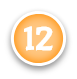
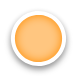
Fixed text so that it is sharper and better aligned

Changed region(s): [[0.1818, 0.1772, 0.8312, 0.8101], [0.4675, 0.3291, 0.7013, 0.6582], [0.3117, 0.3291, 0.4416, 0.6582]]

diff --git a/src/scenes/Stats.js b/src/scenes/Stats.js
@@ -15,34 +15,27 @@ class StatsScene extends Phaser.Scene {
         this.popupplank;
         this.vines;
         this.vines2;
-        this.level;
         this.levelIndicator;
-        this.Myname;
         this.Xpbar;
-        this.XpCount;
+
 
         this.SmallHeart;
         this.SmallEnergy;
         this.SmallPower;
-        this.Hitpoints;
-        this.EnergiePoints;
-        this.Kracht;
-        this.Heart21;
-        this.Energy32;
-        this.Power52;
+   
+
+        this._player = new Player();
+        this.player = {};
 
         this.BigHeart;
         this.BigEnergy;
         this.BigPower;
-        this.Mentalitytxt;
-        this.Energytxt;
-        this.Powertxt;
 
         this.addImage = addImage.bind(this);
     }
 
     preload() {
-
+        this.player = this._player.get();
     }
 
     create() {
@@ -55,7 +48,8 @@ class StatsScene extends Phaser.Scene {
         });
 
         // this.bg = this.addImage(0, 0, 'Stats:bg').setOrigin(0, 0);
-        this.bg = this.addImage(0, 0, 'Daily:bg').setOrigin(0, 0);
+        this.bg = this.addImage(0, 0, 'Daily:bg');
+        this.grid.placeAtIndex(112, this.bg);
         this.grid.scaleY(this.bg, 1);
 
         this.vines2 = this.addImage(0, 0, 'Stats:Vines');
@@ -70,62 +64,66 @@ class StatsScene extends Phaser.Scene {
         this.grid.placeAtIndex(112, this.popup);
         this.grid.scaleTo(this.popup, 0);
 
-        this.levelIndicator = this.addImage(0, 0, 'Stats:levelIndicator');
-        this.grid.placeAtIndex(37, this.levelIndicator);
-        this.grid.scaleTo(this.levelIndicator, 0);
+        this.levelIndicatorBG = this.addImage(0, 0, 'Stats:levelIndicatorBG');
+        this.grid.placeAtIndex(37, this.levelIndicatorBG);
+        this.grid.scaleTo(this.levelIndicatorBG, 0);
 
-        this.level = this.addImage(0, 0, 'Stats:level');
-        this.grid.placeAtIndex(52, this.level);
-        this.grid.scaleTo(this.level, 0);
+        this.levelIndicator = this.add.text(0, 0, this._player.getLevel(), { fontFamily: 'Bubblegum Sans', fontSize: `${Math.round(32 * window.devicePixelRatio)}px`});
+      
+        Phaser.Display.Align.In.Center(
+            this.levelIndicator,
+            this.levelIndicatorBG
+        );
+        
 
-        this.Myname = this.addImage(0, 0, 'Stats:MyName').setOrigin(0.5, 0.9);
-        this.grid.placeAtIndex(67, this.Myname);
-        this.grid.scaleTo(this.Myname, 0);
+        this.level = this.add.text(0, 0, 'Level', { fontFamily: 'Bubblegum Sans', fontSize: `${Math.round(22 * window.devicePixelRatio)}px`, fill: '#75BBE2'}); 
+        Phaser.Display.Align.In.Center(this.level, this.bg, 0, -360);
+
+        this.myUsername = this.add.text(0, 0, this.player.username, { fontFamily: 'Bubblegum Sans', fontSize: `${Math.round(28 * window.devicePixelRatio)}px`});
+        Phaser.Display.Align.In.Center(this.myUsername, this.bg, 0, -305);
+
+        this.xpCount = this.add.text(0, 0, `${this.player.xp}/${this._player.getRequiredXP(this._player.getLevel())}`, { fontFamily: 'Bubblegum Sans', fontSize: `${Math.round(14 * window.devicePixelRatio)}px`});
+        Phaser.Display.Align.In.Center(this.xpCount,this.bg, 0, -225);
 
         this.Xpbar = this.addImage(0, 0, 'Stats:XPBar');
-        this.grid.placeAtIndex(82, this.Xpbar);
+        Phaser.Display.Align.In.Center(this.Xpbar, this.bg, 0, -180);
         this.grid.scaleTo(this.Xpbar, 0);
 
-        this.XpCount = this.addImage(0, 0, 'Stats:XPCount').setOrigin(0.5, 2.0);
-        this.grid.placeAtIndex(82, this.XpCount);
-        this.grid.scaleTo(this.XpCount, 0);
-
+        // Mentaliteit 
         this.SmallHeart = this.addImage(0, 0, 'Stats:SmallHeart');
         this.grid.placeAtIndex(93, this.SmallHeart);
         this.grid.scaleTo(this.SmallHeart, 0);
 
-        this.Hitpoints = this.addImage(0, 0, 'Stats:Hitpoints');
-        this.grid.placeAtIndex(95, this.Hitpoints);
-        this.grid.scaleTo(this.Hitpoints, 0);
+        this.Mentality = this.add.text(0, 0, 'Mentaliteit', { fontFamily: 'Bubblegum Sans', fontSize: `${Math.round(18 * window.devicePixelRatio)}px`}).setOrigin(0.05, 0.45);
+        Phaser.Display.Align.In.Center(this.Mentality, this.bg, -90, -90);
 
-        this.Heart21 = this.addImage(0, 0, 'Stats:21');
-        this.grid.placeAtIndex(100, this.Heart21);
-        this.grid.scaleTo(this.Heart21, 0);
+        this.mentalityStat = this.add.text(0, 0, this.player.mentality, { fontFamily: 'Bubblegum Sans', fontSize: `${Math.round(18 * window.devicePixelRatio)}px`});
+        Phaser.Display.Align.In.Center(this.mentalityStat, this.bg, 150, -90);
 
+        // Energie
         this.SmallEnergy = this.addImage(0, 0, 'Stats:SmallEnergy');
         this.grid.placeAtIndex(108, this.SmallEnergy);
         this.grid.scaleTo(this.SmallEnergy, 0);
 
-        this.EnergiePoints = this.addImage(0, 0, 'Stats:Energypoints').setOrigin(0.6, 0.5);
-        this.grid.placeAtIndex(110, this.EnergiePoints);
-        this.grid.scaleTo(this.EnergiePoints, 0);
+        this.Energy = this.add.text(0, 0, 'Energie', { fontFamily: 'Bubblegum Sans', fontSize: `${Math.round(18 * window.devicePixelRatio)}px`});
+        Phaser.Display.Align.In.Center(this.Energy, this.bg, -106, 0);
 
-        this.Energy32 = this.addImage(0, 0, 'Stats:32');
-        this.grid.placeAtIndex(115, this.Energy32);
-        this.grid.scaleTo(this.Energy32, 0);
+        this.energyStat = this.add.text(0, 0, this.player.energy, { fontFamily: 'Bubblegum Sans', fontSize: `${Math.round(18 * window.devicePixelRatio)}px`});
+        Phaser.Display.Align.In.Center(this.energyStat, this.bg, 150, 0)
 
+        // Kracht
         this.SmallPower = this.addImage(0, 0, 'Stats:SmallPower');
         this.grid.placeAtIndex(123, this.SmallPower);
         this.grid.scaleTo(this.SmallPower, 0);
 
-        this.Kracht = this.addImage(0, 0, 'Stats:kracht').setOrigin(0.7, 0.5);
-        this.grid.placeAtIndex(125, this.Kracht);
-        this.grid.scaleTo(this.Kracht, 0);
 
-        this.Power52 = this.addImage(0, 0, 'Stats:52');
-        this.grid.placeAtIndex(130, this.Power52);
-        this.grid.scaleTo(this.Power52, 0);
+        this.Kracht = this.add.text(0, 0, 'Kracht', { fontFamily: 'Bubblegum Sans', fontSize: `${Math.round(18 * window.devicePixelRatio)}px`});
+        Phaser.Display.Align.In.Center(this.Kracht, this.bg, -116, 90);
 
+        this.krachtStat = this.add.text(0, 0, this.player.power, { fontFamily: 'Bubblegum Sans', fontSize: `${Math.round(18 * window.devicePixelRatio)}px`});
+        Phaser.Display.Align.In.Center(this.krachtStat, this.bg, 150, 90);
+
+        // Stop scene
         this.quit = this.addImage(0, 0, 'Daily:quit').setOrigin(.5, .675).setInteractive();
         this.quit.on('pointerdown', () => {
             this.scene.stop('StatsScene');
@@ -137,29 +135,39 @@ class StatsScene extends Phaser.Scene {
         this.grid.placeAtIndex(172, this.popupplank);
         this.grid.scaleTo(this.popupplank, 0);
 
-        this.BigHeart = this.addImage(0, 0, 'Stats:BigHeart').setOrigin(0.5, 0.2);
-        this.grid.placeAtIndex(153, this.BigHeart);
+        // Mentaliteit
+        this.BigHeart = this.addImage(0, 0, 'Stats:BigHeart');
+        Phaser.Display.Align.In.Center(this.BigHeart, this.popupplank, -200, -60);
         this.grid.scaleTo(this.BigHeart, 0);
 
-        this.Mentalitytxt = this.addImage(0, 0, 'Stats:Mentalitytxt').setOrigin(0.5, 1.0);
-        this.grid.placeAtIndex(183, this.Mentalitytxt);
-        this.grid.scaleTo(this.Mentalitytxt, 0);
+        this.mentalitytxt = this.add.text(0, 0, 'Mentaliteit', { fontFamily: 'Bubblegum Sans', fontSize: `${Math.round(20 * window.devicePixelRatio)}px`});
+        Phaser.Display.Align.In.Center(this.mentalitytxt,this.popupplank,-200,30);
+        
+        this.mentalityView = this.add.text(0, 0, `${this.player.mentality}/100`, { fontFamily: 'Bubblegum Sans', fontSize: `${Math.round(20 * window.devicePixelRatio)}px`});
+        Phaser.Display.Align.In.Center(this.mentalityView,this.popupplank, -200, 80);
+      
 
-        this.BigEnergy = this.addImage(0, 0, 'Stats:BigEnergy').setOrigin(0.5, 0.2);
-        this.grid.placeAtIndex(157, this.BigEnergy);
+        // Energie
+        this.BigEnergy = this.addImage(0, 0, 'Stats:BigEnergy');
         this.grid.scaleTo(this.BigEnergy, 0);
+        Phaser.Display.Align.In.Center(this.BigEnergy,this.popupplank,0,-60);
 
-        this.Energytxt = this.addImage(0, 0, 'Stats:Energytxt').setOrigin(0.5, 1.0);
-        this.grid.placeAtIndex(187, this.Energytxt);
-        this.grid.scaleTo(this.Energytxt, 0);
+        this.energytxt = this.add.text(0, 0, 'Energie', { fontFamily: 'Bubblegum Sans', fontSize: `${Math.round(20 * window.devicePixelRatio)}px`});
+        Phaser.Display.Align.In.Center(this.energytxt,this.popupplank,0,30);
+        
+        this.energyView = this.add.text(0, 0, `${this.player.energy}/100`, { fontFamily: 'Bubblegum Sans', fontSize: `${Math.round(20 * window.devicePixelRatio)}px`});
+        Phaser.Display.Align.In.Center(this.energyView,this.popupplank, 0, 80);
 
-        this.BigPower = this.addImage(0, 0, 'Stats:BigPower').setOrigin(0.5, 0.2);
-        this.grid.placeAtIndex(161, this.BigPower);
+        // Kracht
+        this.BigPower = this.addImage(0, 0, 'Stats:BigPower');
+        Phaser.Display.Align.In.Center(this.BigPower,this.popupplank,200,-60);
         this.grid.scaleTo(this.BigPower, 0);
 
-        this.Powertxt = this.addImage(0, 0, 'Stats:Powertxt').setOrigin(0.5, 1.0);
-        this.grid.placeAtIndex(191, this.Powertxt);
-        this.grid.scaleTo(this.Powertxt, 0);
+        this.powertxt = this.add.text(0, 0, 'Power', { fontFamily: 'Bubblegum Sans', fontSize: `${Math.round(20 * window.devicePixelRatio)}px`});
+        Phaser.Display.Align.In.Center(this.powertxt,this.popupplank,200,30);
+        
+        this.powerView = this.add.text(0, 0, `${this.player.power}/100`, { fontFamily: 'Bubblegum Sans', fontSize: `${Math.round(20 * window.devicePixelRatio)}px`});
+        Phaser.Display.Align.In.Center(this.powerView,this.popupplank, 200, 80);
 
         this.tweens.add({
             targets: [
@@ -168,28 +176,17 @@ class StatsScene extends Phaser.Scene {
             this.popupplank,
             this.vines,
             this.vines2,
-            this.level,
-            this.levelIndicator,
-            this.Myname,
+            this.levelIndicatorBG,
             this.Xpbar,
             this.XpCount,
 
             this.SmallHeart,
             this.SmallEnergy,
             this.SmallPower,
-            this.Hitpoints,
-            this.EnergiePoints,
-            this.Kracht,
-            this.Heart21,
-            this.Energy32,
-            this.Power52,
 
             this.BigHeart,
             this.BigEnergy,
             this.BigPower,
-            this.Mentalitytxt,
-            this.Energytxt,
-            this.Powertxt,
              ],
             scaleX: 1 * window.devicePixelRatio,
             scaleY: 1 * window.devicePixelRatio,
@@ -199,7 +196,7 @@ class StatsScene extends Phaser.Scene {
             yoyo: false
         });
 
-        //this.grid.showNumbers();
+         //this.grid.showNumbers();
     }
 }
 

diff --git a/src/scenes/Overview.js b/src/scenes/Overview.js
@@ -29,16 +29,7 @@ class OverviewScene extends Phaser.Scene {
         this.inventory;
         this.quiz;
 
-        this.level;
-        this.Myname;
         this.whiteBg;
-
-        this.txtGym;
-        this.txtGames;
-        this.txtFeed;
-        this.txtInventory;
-        this.txtQuiz;
-        this.txtXPbar;
 
         this.MentalBar;
         this.EnergyBar;
@@ -48,20 +39,9 @@ class OverviewScene extends Phaser.Scene {
         this.IconEnergy;
         this.IconPower;
 
-        this.txtMentalbar;
-        this.txtEnergybar;
-        this.txtPowerbar;
-
         this._player = new Player();
         this.player = {};
 
-        this.energyTxt;
-        this.foodTxt;
-        this.healthTxt;
-
-        this.xpTxt;
-        this.levelTxt;
-        this.progressTxt;
 
         this.dailyQuestion = {};
         this.addImage = addImage.bind(this);
@@ -85,7 +65,8 @@ class OverviewScene extends Phaser.Scene {
             height: this.sys.game.config.height
         });
 
-        this.bg = this.addImage(0, 0, 'overview:bg').setOrigin(0, 0);
+        this.bg = this.addImage(0, 0, 'overview:bg');   
+        this.grid.placeAtIndex(112, this.bg);
 
         // Top Navbar 
         this.TopNavbar = this.addImage(0, 0, 'overview:BottomNavbar');
@@ -95,8 +76,13 @@ class OverviewScene extends Phaser.Scene {
             this.scene.launch('StatsScene');
         });
         this.grid.placeAtIndex(3, this.whiteBg);
-        this.Mylevel = this.add.text(0, 0, this._player.getLevel(), { fontFamily: 'Bubblegum Sans', fontSize: `${Math.round(16 * window.devicePixelRatio)}px`, fill: 'black'}).setOrigin(1, 0.25);
-        this.grid.placeAtIndex(1, this.Mylevel);
+        this.Mylevel = this.add.text(0, 0, this._player.getLevel(), { fontFamily: 'Bubblegum Sans', fontSize: `${Math.round(16 * window.devicePixelRatio)}px`, fill: 'black'});
+        Phaser.Display.Align.In.Center(
+            this.Mylevel,
+            this.whiteBg,
+            -110,
+            5
+        );
         this.Myname = this.add.text(0, 0, this.player.username, { fontFamily: 'Bubblegum Sans', fontSize: `${Math.round(16 * window.devicePixelRatio)}px`, fill: 'black'}).setOrigin(0.6, 0.25);
         this.grid.placeAtIndex(3, this.Myname);
         this.navPP = this.addImage(0, 0, 'overview:navPP').setOrigin(0.8, 0.43);
@@ -165,12 +151,14 @@ class OverviewScene extends Phaser.Scene {
         this.morfitWalking = this.addImage(0, 0, 'overview:morfitWalking');
         this.grid.placeAtIndex(127, this.morfitWalking);
 
-        this.txtXPbar = this.addImage(0, 0, 'overview:txtXPbar').setOrigin(0.6, 0);
-        this.grid.scaleTo(this.txtXPbar, 0.15);
-        this.grid.placeAtIndex(172, this.txtXPbar);
+        // this.txtXPbar = this.addImage(0, 0, 'overview:txtXPbar').setOrigin(0.6, 0);
+        // this.grid.scaleTo(this.txtXPbar, 0.15);
+        // this.grid.placeAtIndex(172, this.txtXPbar);
+        this.txtXPbar = this.add.text(0, 0, `${this.player.xp}/${this._player.getRequiredXP(this._player.getLevel())}`, { fontFamily: 'Bubblegum Sans', fontSize: `${Math.round(10 * window.devicePixelRatio)}px`});
+        Phaser.Display.Align.In.Center(this.txtXPbar, this.bg, 0, 375 );
 
-        this.XPbar = this.addImage(0, 0, 'overview:XPbar').setOrigin(0.6, 1.3);
-        this.grid.placeAtIndex(187, this.XPbar);
+        this.XPbar = this.addImage(0, 0, 'overview:XPbar');
+        Phaser.Display.Align.In.Center(this.XPbar, this.bg, 0, 395);
 
         this.HomePlant = this.addImage(0, 0, 'overview:HomePlant2');
         this.grid.placeAtIndex(164, this.HomePlant);

diff --git a/src/boot/_Stats.js b/src/boot/_Stats.js
@@ -3,26 +3,15 @@ export function stats() {
     this.load.image('Stats:TabBg', 'src/assets/stats/tab_background_states@2x.png');
     this.load.image('Stats:plank_1', 'src/assets/stats/plank_1@2x.png');
     this.load.image('Stats:Vines', 'src/assets/stats/vines@2x.png');
-    this.load.image('Stats:level', 'src/assets/stats/Level@2x.png');
-    this.load.image('Stats:levelIndicator', 'src/assets/stats/level_indicator@2x.png');
-    this.load.image('Stats:MyName', 'src/assets/stats/Myname@2x.png');
-    this.load.image('Stats:XPCount', 'src/assets/stats/45-486XP@2x.png');
+    this.load.image('Stats:levelIndicatorBG', 'src/assets/stats/level_indicator@2x.png');
     this.load.image('Stats:XPBar', 'src/assets/stats/exp_bar@2x.png');
 
     this.load.image('Stats:SmallHeart', 'src/assets/stats/icon_mental_fill_white.png');
     this.load.image('Stats:SmallEnergy', 'src/assets/stats/icon_energy_fill_white.png');
     this.load.image('Stats:SmallPower', 'src/assets/stats/icon_kracht_fill_white.png');
-    this.load.image('Stats:Hitpoints', 'src/assets/stats/Hitpoints@2x.png');
-    this.load.image('Stats:Energypoints', 'src/assets/stats/Energie@2x.png');
-    this.load.image('Stats:kracht', 'src/assets/stats/kracht@2x.png');
-    this.load.image('Stats:21', 'src/assets/stats/21@2x.png');
-    this.load.image('Stats:32', 'src/assets/stats/32@2x.png');
-    this.load.image('Stats:52', 'src/assets/stats/52@2x.png');
 
     this.load.image('Stats:BigHeart', 'src/assets/stats/icon_mental_fill_white@2x.png');
     this.load.image('Stats:BigEnergy', 'src/assets/stats/icon_energy_fill_white@2x.png');
     this.load.image('Stats:BigPower', 'src/assets/stats/icon_kracht_fill_white@2x.png');
-    this.load.image('Stats:Mentalitytxt', 'src/assets/stats/Mentaliteit80-100@2x.png');
-    this.load.image('Stats:Energytxt', 'src/assets/stats/energie100-100@2x.png');
-    this.load.image('Stats:Powertxt', 'src/assets/stats/Kracht100-100@2x.png');
+
 }

diff --git a/src/boot/_Overview.js b/src/boot/_Overview.js
@@ -5,24 +5,19 @@ export function overview_assets() {
     this.load.image('overview:whiteBG', 'src/assets/character_page/nav-level-tap@2x.png');
     this.load.image('overview:navPP', 'src/assets/character_page/nav-pp-tab@2x.png');
     this.load.image('overview:navM_Dollars', 'src/assets/character_page/nav-m-dollars-tab@2x.png');
-    this.load.image('overview:Myname', 'src/assets/level-tap/Myname@2x.png');
-    this.load.image('overview:level', 'src/assets/level-tap/Group 242@2x.png');
+
 
     // Morfit
     this.load.image('overview:morfitWalking', 'src/assets/character_page/morfit_character@2x.png');
     this.load.image('overview:bg', 'src/assets/character_page/background@2x.png');
     this.load.image('overview:XPbar', 'src/assets/character_page/exp_bar@2x.png');
-    this.load.image('overview:txtXPbar', 'src/assets/character_page/250-486XP@2x.png');
 
     // bottomnavbar & bars
     this.load.image('overview:MentalBar', 'src/assets/character_page/mental_bar@2x.png');
-    this.load.image('overview:Mental80', 'src/assets/character_page/80-100@2x.png');
     this.load.image('overview:IconMental', 'src/assets/character_page/icon_mental_fill@2x.png');
     this.load.image('overview:EnergyBar', 'src/assets/character_page/energie_bar@2x.png');
-    this.load.image('overview:Energy100', 'src/assets/character_page/100-100@2x.png');
     this.load.image('overview:IconEnergy', 'src/assets/character_page/icon_energie_bar_fill@2x.png');
     this.load.image('overview:PowerBar', 'src/assets/character_page/kracht_bar@2x.png');
-    this.load.image('overview:Power100', 'src/assets/character_page/100-100@2x.png');
     this.load.image('overview:IconPower', 'src/assets/character_page/icon_kracht_fill@2x.png');
   
 
